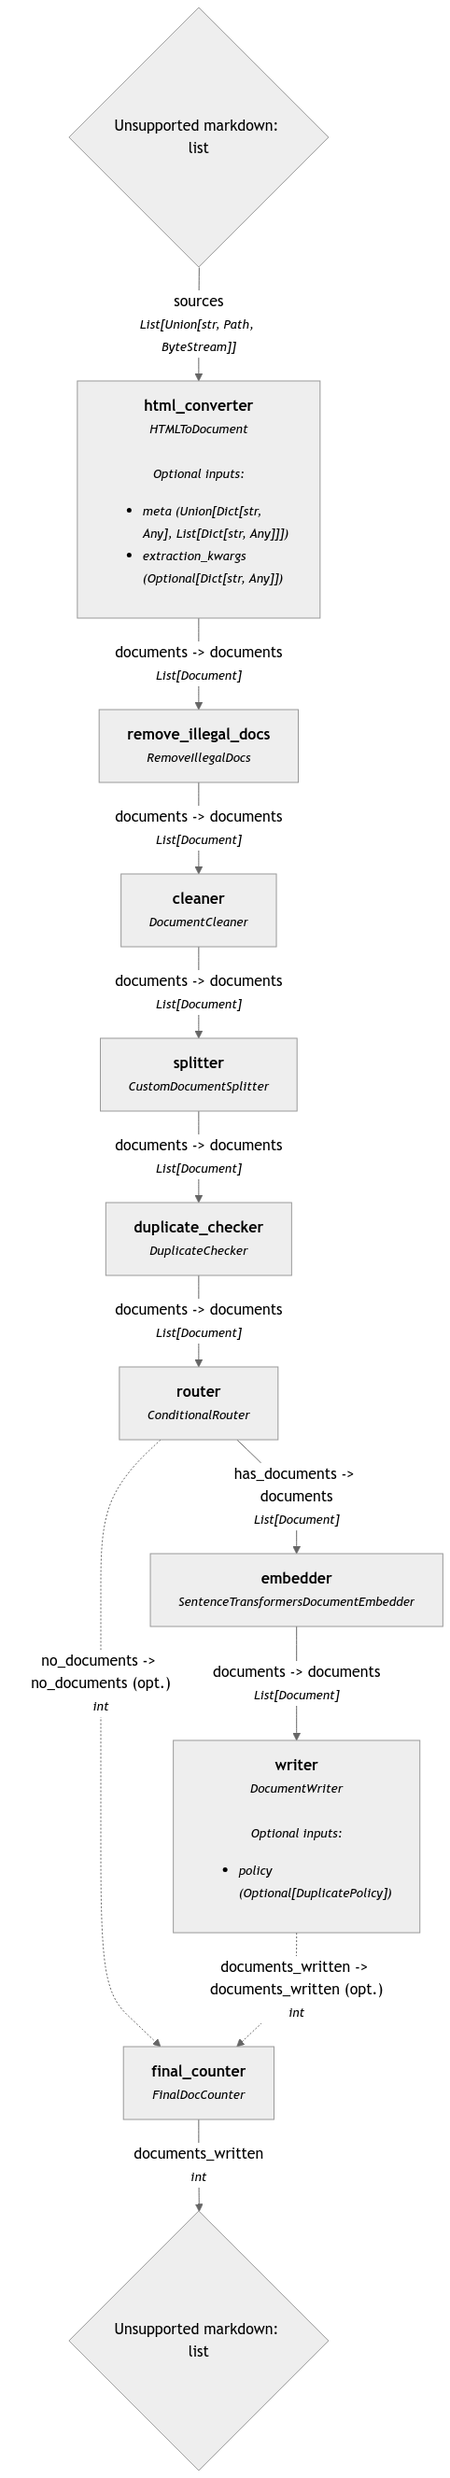
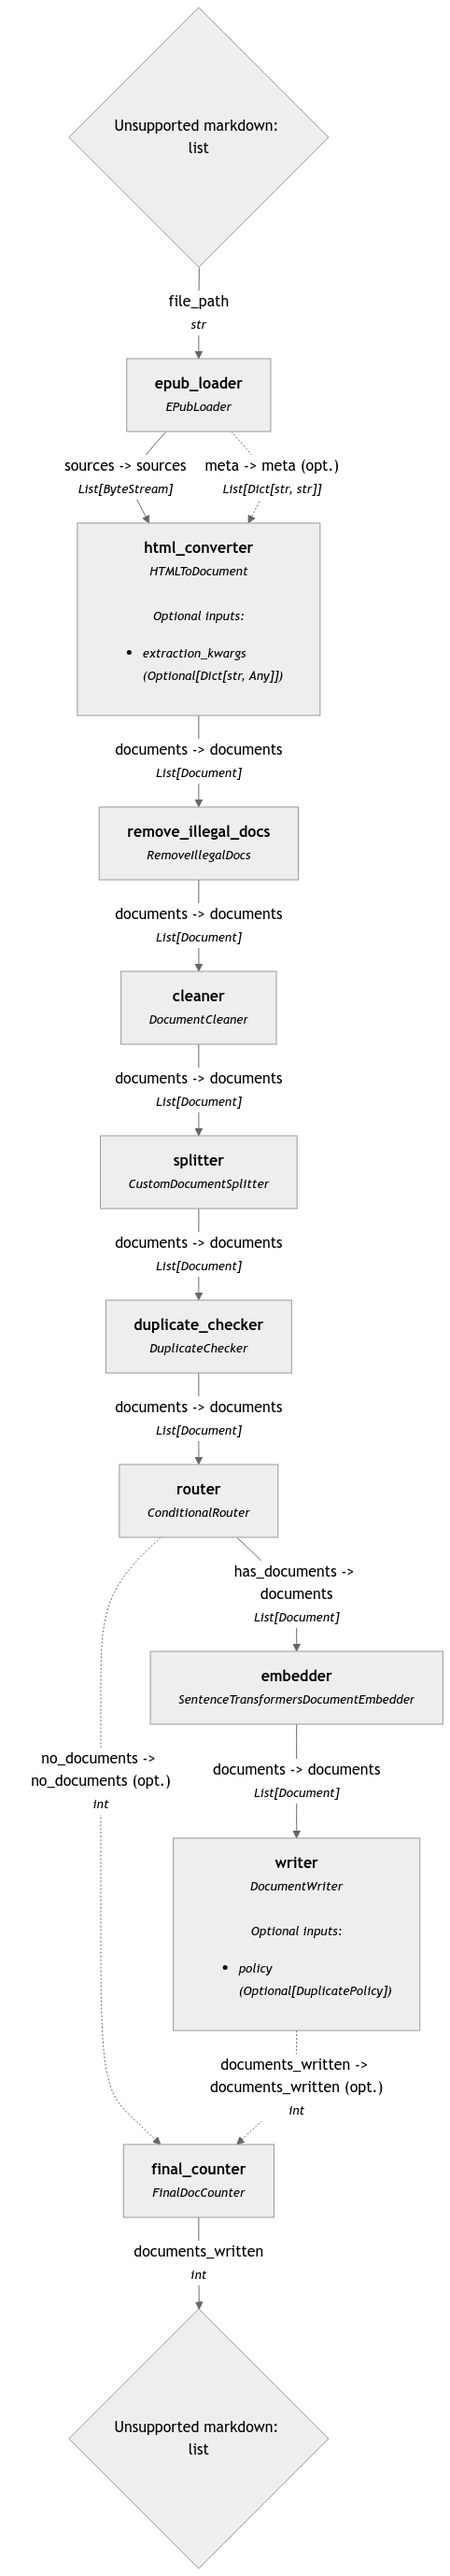
Working version of EPubLoader component

diff --git a/document_processor.py b/document_processor.py
@@ -30,7 +30,8 @@ from pathlib import Path
 from typing_extensions import Set
 from generator_model import get_secret
 from doc_content_checker import skip_content
-from custom_haystack_components import CustomDocumentSplitter, RemoveIllegalDocs, FinalDocCounter, DuplicateChecker
+from custom_haystack_components import (CustomDocumentSplitter, RemoveIllegalDocs, FinalDocCounter, DuplicateChecker,
+                                        EPubLoader)
 import csv
 from html_parser import HTMLParser
 
@@ -182,14 +183,17 @@ class DocumentProcessor:
         if self._doc_convert_pipeline is not None:
             self._doc_convert_pipeline.draw(Path("Document Conversion Pipeline.png"))
 
-    def _load_files(self) -> Iterator[Tuple[ByteStream, Dict[str, str]]]:
+    def _load_files(self) -> str:  # Iterator[Tuple[ByteStream, Dict[str, str]]]:
         if self._is_directory:
             for file_path in Path(self._file_or_folder_path).glob('*.epub'):
-                docs, meta = self._load_epub(str(file_path))
-                yield docs, meta
+                yield str(file_path)
+        #         docs, meta = self._load_epub(str(file_path))
+        #         yield docs, meta
         else:
-            docs, meta = self._load_epub(self._file_or_folder_path)
-            yield docs, meta
+            path: Path = Path(self._file_or_folder_path)
+            yield str(path)
+            # docs, meta = self._load_epub(self._file_or_folder_path)
+            # yield docs, meta
 
     def _load_epub(self, file_path: str) -> Tuple[List[ByteStream], List[Dict[str, str]]]:
         docs_list: List[ByteStream] = []
@@ -263,9 +267,9 @@ class DocumentProcessor:
 
         # Create the document conversion pipeline
         doc_convert_pipe: Pipeline = Pipeline()
-        # doc_convert_pipe.add_component("epub_loader", EPubLoader(min_paragraph_size=self._min_paragraph_size,
-        #                                                          min_section_size=self._min_section_size,
-        #                                                          verbose=self._verbose))
+        doc_convert_pipe.add_component("epub_loader", EPubLoader(min_paragraph_size=self._min_paragraph_size,
+                                                                 min_section_size=self._min_section_size,
+                                                                 verbose=self._verbose))
         # doc_convert_pipe.add_component("html_parser", HTMLParserComponent())
         doc_convert_pipe.add_component("html_converter", HTMLToDocument())
         doc_convert_pipe.add_component("remove_illegal_docs", instance=RemoveIllegalDocs())
@@ -279,8 +283,8 @@ class DocumentProcessor:
                                                       policy=DuplicatePolicy.OVERWRITE))
         doc_convert_pipe.add_component("final_counter", FinalDocCounter())
 
-        # doc_convert_pipe.connect("epub_loader.sources", "html_converter.sources")
-        # doc_convert_pipe.connect("epub_loader.meta", "html_converter.meta")
+        doc_convert_pipe.connect("epub_loader.sources", "html_converter.sources")
+        doc_convert_pipe.connect("epub_loader.meta", "html_converter.meta")
         # doc_convert_pipe.connect("html_parser", "converter")
         doc_convert_pipe.connect("html_converter", "remove_illegal_docs")
         doc_convert_pipe.connect("remove_illegal_docs", "cleaner")
@@ -327,16 +331,12 @@ class DocumentProcessor:
         meta: List[Dict[str, str]]
         # self._doc_convert_pipeline.run({"epub_loader": {"file_or_folder_path": self._file_or_folder_path}})
 
-        for source, meta in self._load_files():
-            self._print_verbose(f"Processing document: {meta[0].get('book_title', '')} ")
-
-            # If needed, you can batch process here instead of processing one by one
-            # Pass the source and meta to the document conversion pipeline
-            results: Dict[str, Any] = self._doc_convert_pipeline.run({"html_converter": {"sources": source,
-                                                                                         "meta": meta}})
+        for file_path in self._load_files():
+            self._print_verbose(f"Processing file: {file_path} ")
+            results: Dict[str, Any] = self._doc_convert_pipeline.run({"epub_loader": {"file_path": file_path}})
             written = results["final_counter"]["documents_written"]
             total_written += written
-            self._print_verbose(f"Wrote {written} documents for {meta[0]['book_title']}.")
+            self._print_verbose(f"Wrote {written} documents for {file_path}.")
 
         self._print_verbose(f"Finished writing documents to document store. Final document count: {total_written}")
 

diff --git a/custom_haystack_components.py b/custom_haystack_components.py
@@ -29,48 +29,22 @@ class EPubLoader:
         self._min_paragraph_size: int = min_paragraph_size
         self._verbose: bool = verbose
         self._is_directory: bool = False
-        self._file_or_folder_path: str = ""
+        self._file_path: str = ""
         self._sections_to_skip: Dict[str, Set[str]] = {}
 
     @component.output_types(sources=List[ByteStream], meta=List[Dict[str, str]])
-    def run(self, file_or_folder_path: str) -> Dict[str, Any]:
-        self._file_or_folder_path = file_or_folder_path
-        # Determine if the path is a file or directory
-        if Path(self._file_or_folder_path).is_file():
-            self._is_directory = False
-        elif Path(self._file_or_folder_path).is_dir():
-            self._is_directory = True
-        else:
-            raise ValueError("The provided path must be a valid file or directory.")
-
+    def run(self, file_path: str) -> Dict[str, Any]:
+        self._file_path = file_path
         self._sections_to_skip = self._load_sections_to_skip()
         # Load the EPUB file
-        documents: List[ByteStream] = []
-        meta_data: List[Dict[str, str]] = []
-        for result in self._load_files():
-            docs: List[ByteStream]
-            meta: List[Dict[str, str]]
-            docs, meta = result
-            documents.extend(docs)
-            meta_data.extend(meta)
-        return {"sources": documents, "meta": meta_data}
+        sources: List[ByteStream]
+        meta: List[Dict[str, str]]
+        sources, meta = self._load_file()
+        return {"sources": sources, "meta": meta}
 
-    def _load_files(self) -> Iterator[Tuple[ByteStream, Dict[str, str]]]:
-        # Determine if the path is a file or directory
-        if Path(self._file_or_folder_path).is_file():
-            self._is_directory = False
-        elif Path(self._file_or_folder_path).is_dir():
-            self._is_directory = True
-        else:
-            raise ValueError("The provided path must be a valid file or directory.")
-
-        if self._is_directory:
-            for file_path in Path(self._file_or_folder_path).glob('*.epub'):
-                docs, meta = self._load_epub(str(file_path))
-                yield docs, meta
-        else:
-            docs, meta = self._load_epub(self._file_or_folder_path)
-            yield docs, meta
+    def _load_file(self) -> Tuple[List[ByteStream], List[Dict[str, str]]]:
+        sources, meta = self._load_epub(self._file_path)
+        return sources, meta
 
     def _load_epub(self, file_path: str) -> Tuple[List[ByteStream], List[Dict[str, str]]]:
         docs_list: List[ByteStream] = []
@@ -100,15 +74,15 @@ class EPubLoader:
 
             if (parser.total_text_length() > self._min_section_size
                     and item.id not in self._sections_to_skip.get(book.title, set())):
-                self._print_verbose(f"Book: {book.title}; Section {section_num}. "
-                                    f"Section Title: {parser.chapter_title}. "
+                self._print_verbose(f"Book: {book.title}; Section #{section_num}. "
+                                    f"Chapter: {parser.chapter_title}. "
                                     f"Length: {parser.total_text_length()}")
                 docs_list.extend(temp_docs)
                 meta_list.extend(temp_meta)
                 included_sections.append(book.title + ", " + item.id)
                 section_num += 1
             else:
-                self._print_verbose(f"Book: {book.title}; Title: {parser.chapter_title}. "
+                self._print_verbose(f"Book: {book.title}; Chapter: {parser.chapter_title}. "
                                     f"Length: {parser.total_text_length()}. Skipped.")
 
         self._print_verbose(f"Sections included:")
@@ -125,10 +99,10 @@ class EPubLoader:
     def _load_sections_to_skip(self) -> Dict[str, Set[str]]:
         sections_to_skip: Dict[str, Set[str]] = {}
         if self._is_directory:
-            csv_path = Path(self._file_or_folder_path) / "sections_to_skip.csv"
+            csv_path = Path(self._file_path) / "sections_to_skip.csv"
         else:
             # Get the directory of the file and then look for the csv file in that directory
-            csv_path = Path(self._file_or_folder_path).parent / "sections_to_skip.csv"
+            csv_path = Path(self._file_path).parent / "sections_to_skip.csv"
 
         if csv_path.exists():
             with open(csv_path, 'r', newline='', encoding='utf-8') as csvfile:
